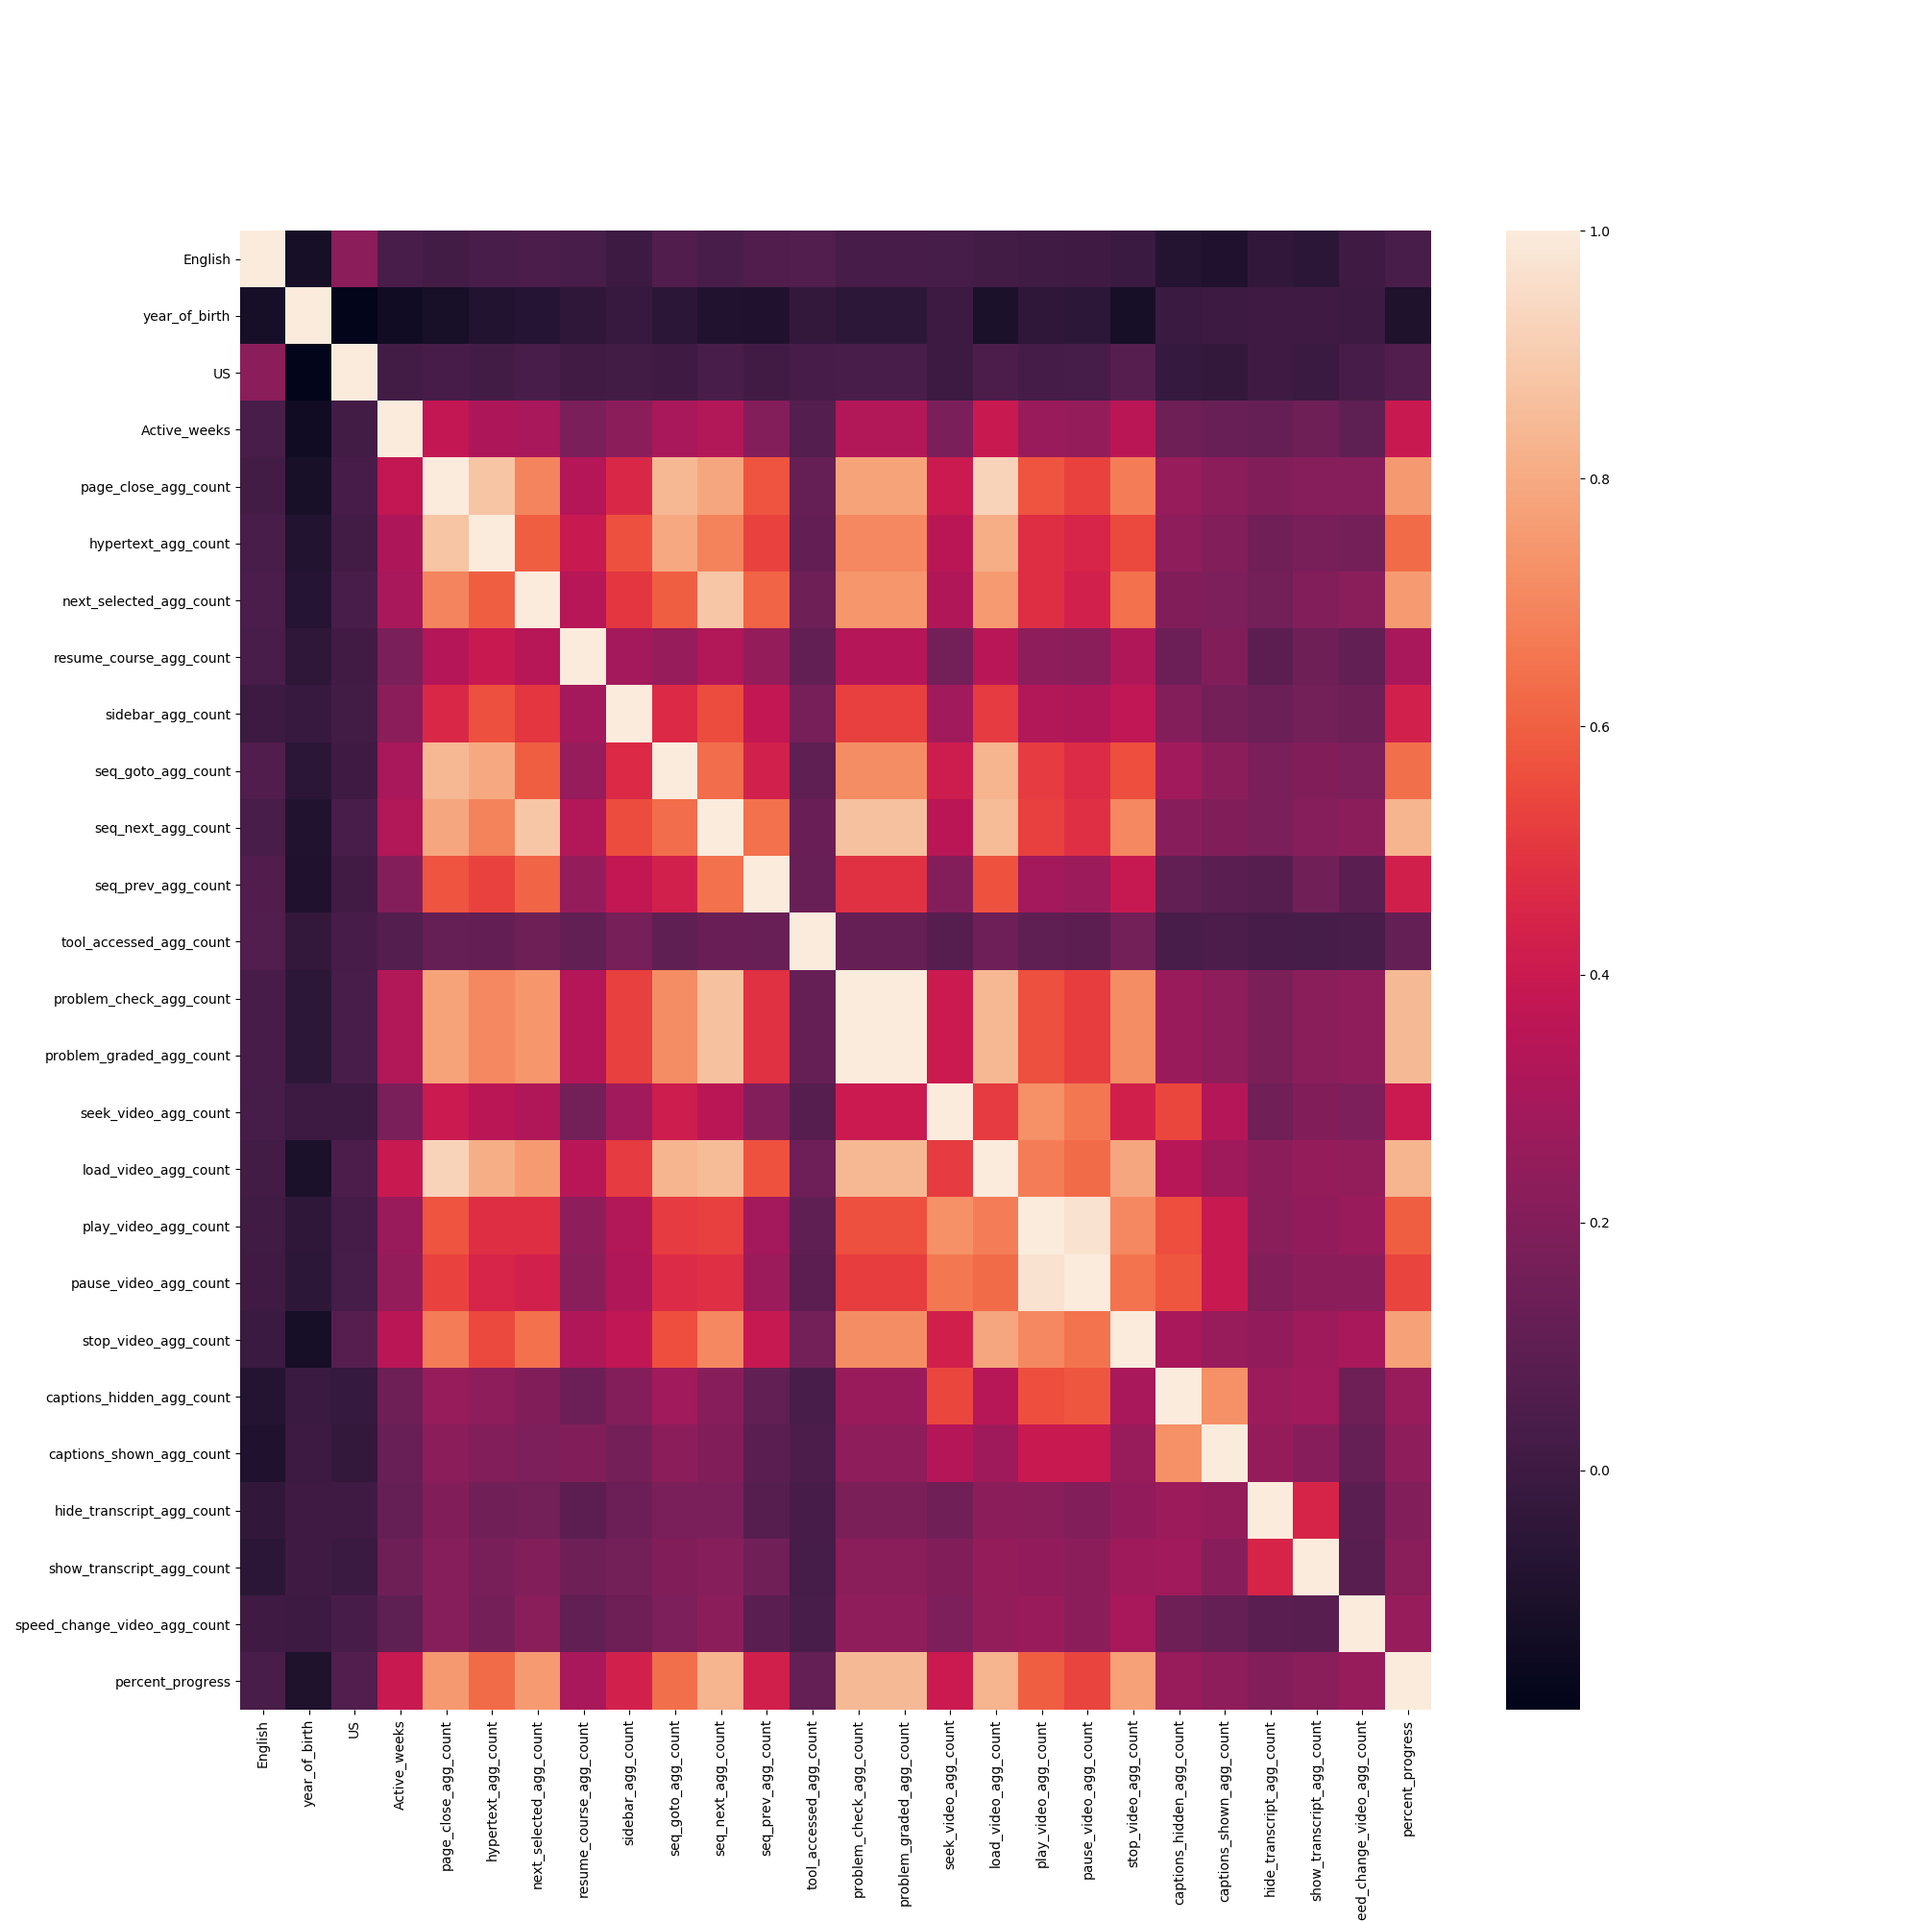
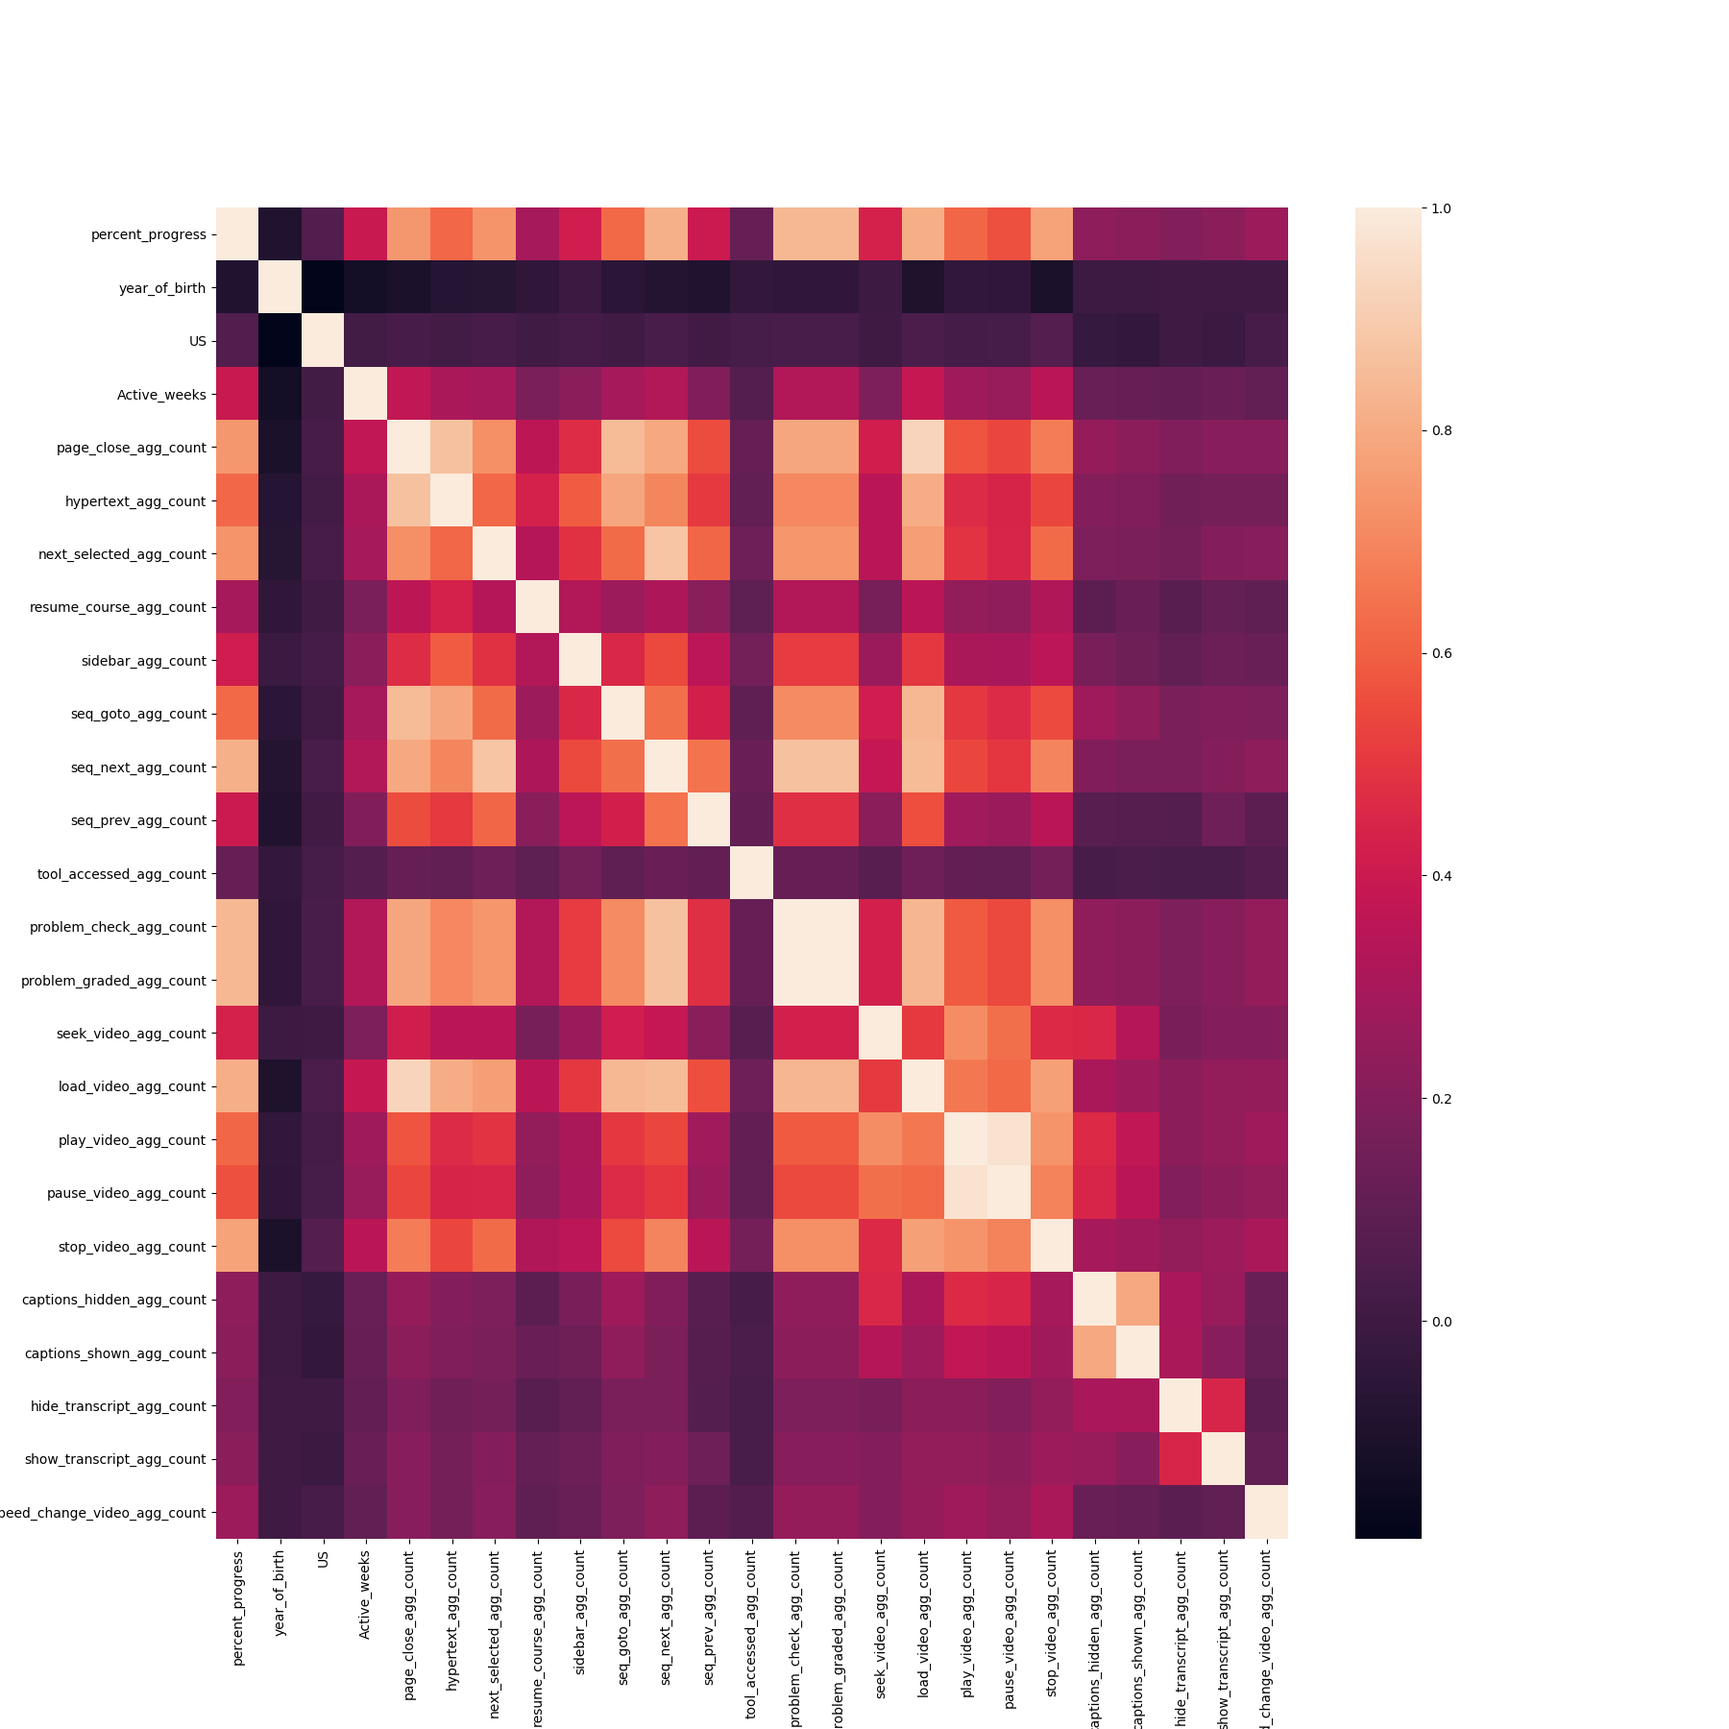
Added more visualization

Changed region(s): [[0.0, 0.0933, 0.7467, 1.0]]

diff --git a/fall2020_model/model_pipeline.py b/fall2020_model/model_pipeline.py
@@ -50,11 +50,43 @@ def quick_eval(pipeline, X_train, y_train, X_test, y_test, verbose=True):
     
     return pipeline.named_steps['regressor'], train_score, test_score
 
+def plot_feature(data, column, style):
+    data_count=len(data.index)
+    plt.clf()
+    ax=data[column].value_counts(sort=False).sort_index().plot(kind=style)
+    if style == 'barh':
+        for p in ax.patches:
+            ax.annotate(str(round(p.get_width()/data_count * 100,2)) +" %", (p.get_x() + p.get_width(), p.get_y()), xytext=(5, 10), textcoords='offset points')
+    plt.savefig('./plots/' +column + '.png') 
+
+def plot_feature_combo(data, column1, column2, style):
+    data_count=len(data.index)
+    plt.clf()
+    data.plot(x=column1, y=column2, kind=style)
+    plt.savefig('./plots/' +column1 +'_'+ column2 + '.png') 
+
 def feature_explortion(data):
     '''
     Explore features and return a list of features thats needs to be included in the model
     '''
     print("Data size: " + str(data.shape))
+    #English does not have good data, hence removing
+    data= data.drop(columns=['English'])
+    plot_feature(data,'gender','barh')
+    plot_feature(data,'US','barh')
+    plot_feature(data,'level_of_education','barh')
+    plot_feature(data,'percent_progress','line')
+    print(data['percent_progress'].describe())
+    #plot_feature_combo(data,'level_of_education', 'percent_progress','bar')
+	#df.plot(x='col_name_1', y='col_name_2', style='o')
+	#df.groupby('Gender').Age.mean()
+    #data['video_interation'] = data['seek_video_agg_count'] + data['load_video_agg_count'] +  data['play_video_agg_count'] +  data['pause_video_agg_count'] +  data['stop_video_agg_count']
+    #data['problem_interaction'] = data['problem_check_agg_count'] + data['problem_graded_agg_count']
+    #print(data.groupby('US').video_interation.mean())
+    #print(data.groupby('level_of_education').video_interation.mean())
+    #print(data.groupby('level_of_education').problem_interaction.mean())
+    #data= data.drop(columns=['video_interation'])
+    #data= data.drop(columns=['problem_interaction'])
     print(data.isnull().sum().sort_values(ascending=False))
     corr_matrix = data.corr()
     fig, ax = plt.subplots(figsize=(18,18)) 
@@ -64,9 +96,9 @@ def feature_explortion(data):
             ax=ax)
     sns_plot.figure.savefig("./plots/correlation.png")
     cm=corr_matrix[output_variable].sort_values(ascending=False)
-    features = cm.index[1:6].tolist()
+    features = cm.index[1:10].tolist()
     data[np.array(features)].hist(bins=200,figsize=(16,8))
-    plt.savefig('./plots/Figure 1.png') 
+    plt.savefig('./plots/best_features.png') 
     return features
 
 def preprocessor_pipe(features):
@@ -87,12 +119,12 @@ def preprocessor_pipe(features):
 def main():
     data_path = './data/'
     data=read_csv(data_path)
+    xVars = feature_explortion(data)
     X = data.drop([output_variable], axis=1)
     y = data[output_variable]
-    X_train, X_test, y_train, y_test = model_selection.train_test_split(X, y, train_size=0.65,test_size=0.35, random_state=2020)
+    X_train, X_test, y_train, y_test = model_selection.train_test_split(X, y, train_size=0.75,test_size=0.25, random_state=2020)
     train_data = X_train.copy()
     train_data[output_variable] = y_train
-    xVars = feature_explortion(train_data)
     preprocessor = preprocessor_pipe(xVars)
     pca = PCA()
     regressors = [
